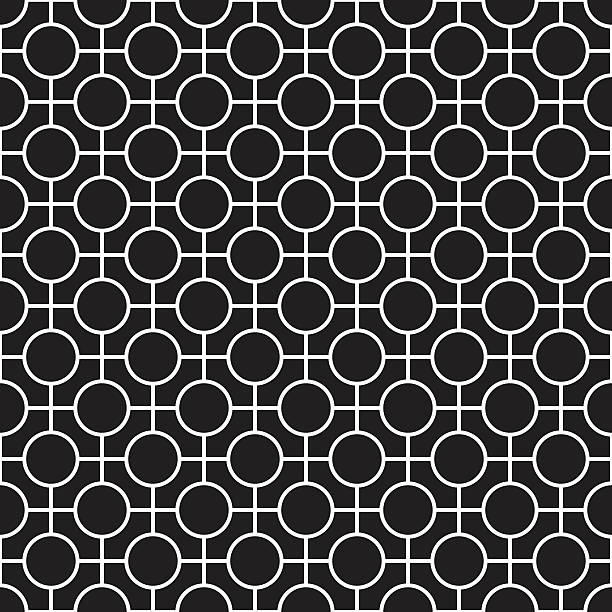
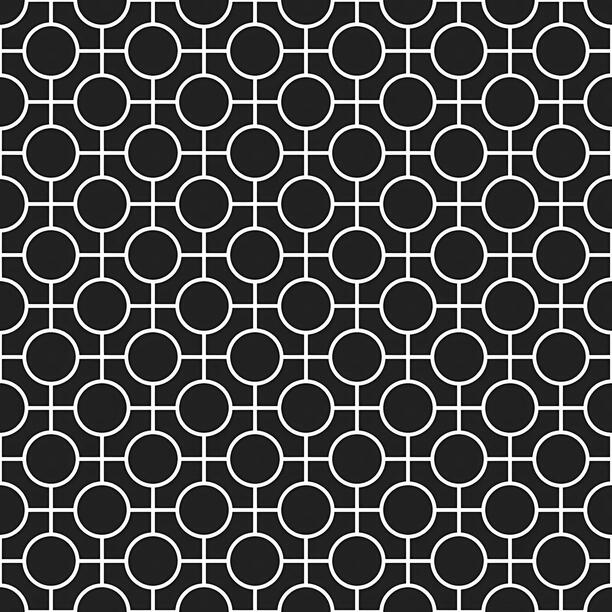
Imagens trocadas e tela inicial desenvolvida

diff --git a/assets/styles/TelaInicial.css b/assets/styles/TelaInicial.css
@@ -1,2 +1,84 @@
 @charset "UTF-8";
 @import url('https://fonts.googleapis.com/css2?family=Averia+Serif+Libre:ital,wght@0,300;0,400;0,700;1,300;1,400;1,700&family=Sevillana&display=swap');
+
+*{
+    box-sizing: border-box;
+    padding: 0;
+    margin: 0;
+    font-family: "Sevillana";
+}
+
+body{
+    display: flex;
+    flex-direction: column;
+    align-items: center;
+    justify-content: space-between;
+    height: 100vh;
+    background-color: #000;
+    background-image: url(../images/Background_Branco.jpg);
+}
+
+main{
+    display: flex;
+    flex-direction: column;
+    align-items: center;
+    justify-content: space-around;
+    height: 95%;
+    background-color: #000000b9;
+    width: 100%;
+}
+
+main > p{
+    color: #fff;
+    text-align: center;
+    font-size: 2.5em;
+}
+
+main > a{
+    height: 50px;
+    line-height: 10px;
+    text-decoration: none;
+    font-size: 2.5em;
+    color: #ff0;
+    background-color: #000;
+    padding: 10px 50px;
+    border: 1px solid #ff0;
+    border-radius: 15px;
+}
+
+.amarelo{color: #ff0;}
+
+footer{
+    display: flex;
+    align-items: center;
+    justify-content: center;
+    width: 100%;
+    height: 8%;
+    text-align: center;
+    font-size: 1.1em;
+    background-color: #000;
+}
+
+footer a{
+    position: relative;
+    top: -10px;
+    text-decoration: none;
+    color: #ff0;
+    transition: color 1.3s;
+    animation: pulsar 1.5s infinite alternate-reverse
+    ease-in-out;
+}
+
+footer a:hover{
+    transition: color 1.3s;
+    color: #fff;
+}
+
+@keyframes pulsar{
+    from{
+        font-size: 1.1em;
+    }
+    to{
+        font-size: 1.2em;
+    }
+}

diff --git a/index.html b/index.html
@@ -7,8 +7,16 @@
     <meta charset="UTF-8">
     <meta name="viewport" content="width=device-width, initial-scale=1.0">
     <title>Hotel Continental</title>
+    <link rel="stylesheet" href="./assets/styles/TelaInicial.css">
 </head>
 <body>
-    
+    <main>
+        <img src="./assets/images/logo2.png" alt="Logo do Hotel Continental.">
+        <p>Seja bem vindo <br>ao<br> <span class="amarelo">Hotel Continetal</span></p>
+        <a href="#">Entrar</a>
+    </main>
+    <footer>
+        <a href="https://github.com/diogojp202" target="_blank">© Diogo Antonny</a>
+    </footer>
 </body>
 </html>
